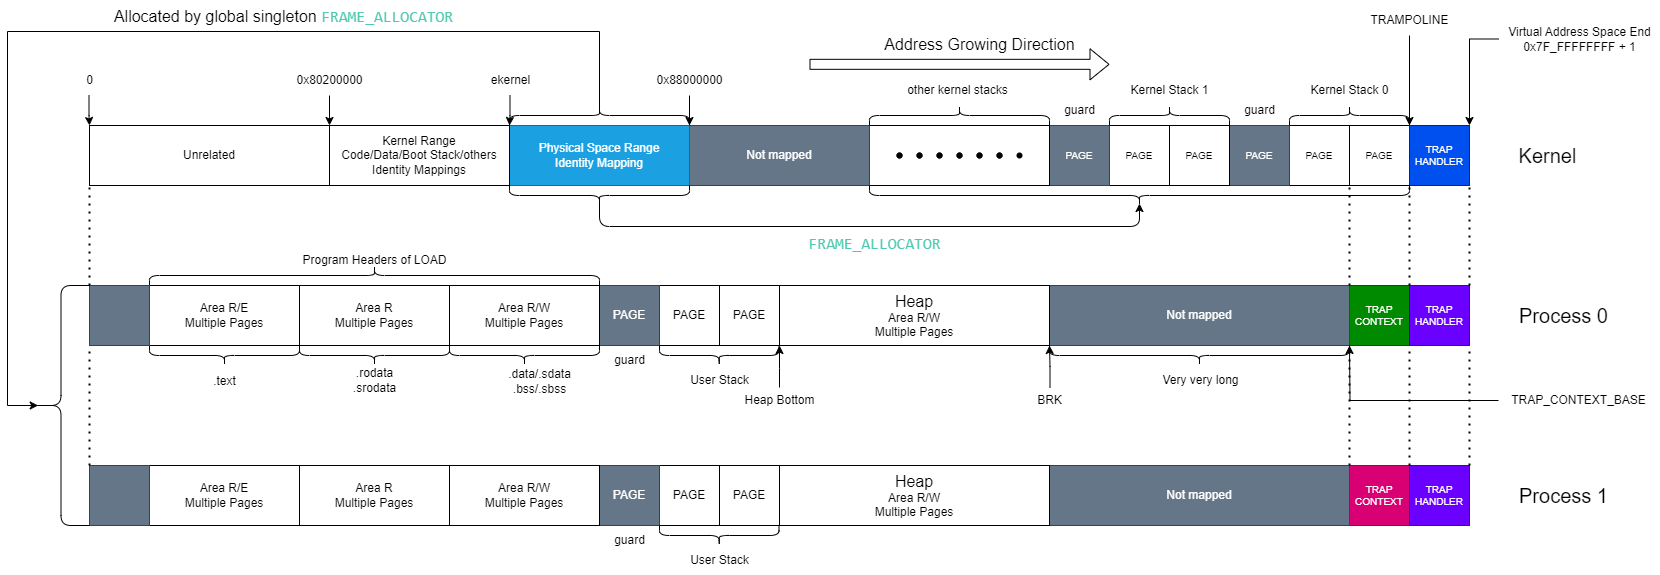
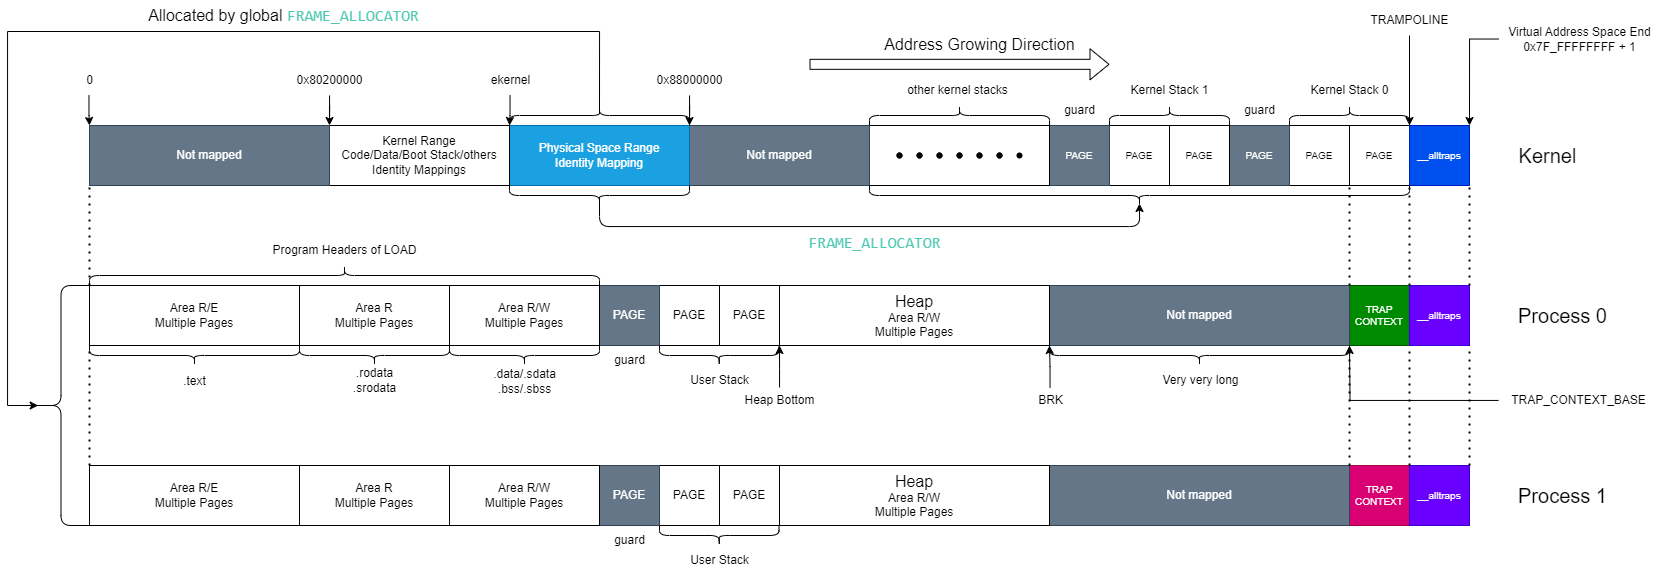
Site updated: 2024-04-17 11:25:20

diff --git a/2024/04/16/OSCamp-D9-rCore-Chapter-4-Code-Comprehension/index.html b/2024/04/16/OSCamp-D9-rCore-Chapter-4-Code-Comprehension/index.html
@@ -20,16 +20,17 @@
 
 <script class="next-config" data-name="main" type="application/json">{"hostname":"qiu233.github.io","root":"/","images":"/images","scheme":"Muse","darkmode":true,"version":"8.19.1","exturl":false,"sidebar":{"position":"left","display":"post","padding":18,"offset":12},"copycode":{"enable":false,"style":null},"fold":{"enable":false,"height":500},"bookmark":{"enable":false,"color":"#222","save":"auto"},"mediumzoom":false,"lazyload":false,"pangu":false,"comments":{"style":"tabs","active":null,"storage":true,"lazyload":false,"nav":null},"stickytabs":false,"motion":{"enable":true,"async":false,"transition":{"menu_item":"fadeInDown","post_block":"fadeIn","post_header":"fadeInDown","post_body":"fadeInDown","coll_header":"fadeInLeft","sidebar":"fadeInUp"}},"i18n":{"placeholder":"搜索...","empty":"没有找到任何搜索结果：${query}","hits_time":"找到 ${hits} 个搜索结果（用时 ${time} 毫秒）","hits":"找到 ${hits} 个搜索结果"}}</script><script src="/js/config.js"></script>
 
-    <meta name="description" content="今天花了大半天读代码，然后整理出下面这张图，作为rCore第4章地址空间一览。图中包括内核的地址空间和两个进程的地址空间。虚线表示地址相等，没有虚线的部分的宽度比例没有实际意义。 地址转换机制请见上一篇文章。   地址空间切换 虚拟地址空间到物理地址的映射由MemorySet决定，内核只有一个全局的实例KERNEL_SPACE，而每一个进程都有独特的MemorySet。用户程序切换到内核态时，在执">
+    <meta name="description" content="我花了一天多时间做了下面两张图，分别是地址空间一览和第四章内核态内存管理的层次结构一览。  第一节-地址空间关注第一张图，解释地址空间的分配。 第二节-内存管理利用第二张图解释第四章是如何实现内存管理的。     地址空间 图中包括内核的地址空间和两个进程的地址空间。虚线表示地址相等，没有虚线的部分的宽度比例没有实际意义。 地址转换机制请见上一篇文章。  地址空间切换 虚拟地址空间到物理地址的映射">
 <meta property="og:type" content="article">
 <meta property="og:title" content="OSCamp D9-rCore-Chapter-4-Code Comprehension">
 <meta property="og:url" content="https://qiu233.github.io/2024/04/16/OSCamp-D9-rCore-Chapter-4-Code-Comprehension/index.html">
 <meta property="og:site_name" content="Qiu的博客">
-<meta property="og:description" content="今天花了大半天读代码，然后整理出下面这张图，作为rCore第4章地址空间一览。图中包括内核的地址空间和两个进程的地址空间。虚线表示地址相等，没有虚线的部分的宽度比例没有实际意义。 地址转换机制请见上一篇文章。   地址空间切换 虚拟地址空间到物理地址的映射由MemorySet决定，内核只有一个全局的实例KERNEL_SPACE，而每一个进程都有独特的MemorySet。用户程序切换到内核态时，在执">
+<meta property="og:description" content="我花了一天多时间做了下面两张图，分别是地址空间一览和第四章内核态内存管理的层次结构一览。  第一节-地址空间关注第一张图，解释地址空间的分配。 第二节-内存管理利用第二张图解释第四章是如何实现内存管理的。     地址空间 图中包括内核的地址空间和两个进程的地址空间。虚线表示地址相等，没有虚线的部分的宽度比例没有实际意义。 地址转换机制请见上一篇文章。  地址空间切换 虚拟地址空间到物理地址的映射">
 <meta property="og:locale" content="zh_CN">
 <meta property="og:image" content="https://qiu233.github.io/2024/04/16/OSCamp-D9-rCore-Chapter-4-Code-Comprehension/rcore-ch4-mm-spaces.png">
+<meta property="og:image" content="https://qiu233.github.io/2024/04/16/OSCamp-D9-rCore-Chapter-4-Code-Comprehension/rcore-ch4-mm-hierarchy.png">
 <meta property="article:published_time" content="2024-04-16T04:14:07.000Z">
-<meta property="article:modified_time" content="2024-04-16T12:20:14.981Z">
+<meta property="article:modified_time" content="2024-04-17T03:21:17.654Z">
 <meta property="article:author" content="Qiu">
 <meta property="article:tag" content="Rust">
 <meta property="article:tag" content="RISC-V">
@@ -116,7 +117,7 @@
       <div class="sidebar-panel-container">
         <!--noindex-->
         <div class="post-toc-wrap sidebar-panel">
-            <div class="post-toc animated"><ol class="nav"><li class="nav-item nav-level-2"><a class="nav-link" href="#%E5%9C%B0%E5%9D%80%E7%A9%BA%E9%97%B4%E5%88%87%E6%8D%A2"><span class="nav-number">1.</span> <span class="nav-text"> 地址空间切换</span></a></li><li class="nav-item nav-level-2"><a class="nav-link" href="#%E5%86%85%E6%A0%B8%E7%9A%84identity-mappings"><span class="nav-number">2.</span> <span class="nav-text"> 内核的Identity Mappings</span></a></li><li class="nav-item nav-level-2"><a class="nav-link" href="#%E5%86%85%E5%AD%98%E5%88%86%E9%85%8D"><span class="nav-number">3.</span> <span class="nav-text"> 内存分配</span></a></li></ol></div>
+            <div class="post-toc animated"><ol class="nav"><li class="nav-item nav-level-1"><a class="nav-link" href="#%E5%9C%B0%E5%9D%80%E7%A9%BA%E9%97%B4"><span class="nav-number">1.</span> <span class="nav-text"> 地址空间</span></a><ol class="nav-child"><li class="nav-item nav-level-2"><a class="nav-link" href="#%E5%9C%B0%E5%9D%80%E7%A9%BA%E9%97%B4%E5%88%87%E6%8D%A2"><span class="nav-number">1.1.</span> <span class="nav-text"> 地址空间切换</span></a></li><li class="nav-item nav-level-2"><a class="nav-link" href="#%E5%86%85%E6%A0%B8%E7%9A%84identity-mappings"><span class="nav-number">1.2.</span> <span class="nav-text"> 内核的Identity Mappings</span></a></li><li class="nav-item nav-level-2"><a class="nav-link" href="#%E5%86%85%E5%AD%98%E5%88%86%E9%85%8D"><span class="nav-number">1.3.</span> <span class="nav-text"> 内存分配</span></a></li></ol></li><li class="nav-item nav-level-1"><a class="nav-link" href="#%E5%86%85%E5%AD%98%E7%AE%A1%E7%90%86"><span class="nav-number">2.</span> <span class="nav-text"> 内存管理</span></a><ol class="nav-child"><li class="nav-item nav-level-2"><a class="nav-link" href="#%E5%86%85%E5%AD%98%E5%88%86%E9%85%8D-2"><span class="nav-number">2.1.</span> <span class="nav-text"> 内存分配</span></a></li><li class="nav-item nav-level-2"><a class="nav-link" href="#%E5%86%85%E5%AD%98%E5%9B%9E%E6%94%B6"><span class="nav-number">2.2.</span> <span class="nav-text"> 内存回收</span></a></li></ol></li></ol></div>
         </div>
         <!--/noindex-->
 
@@ -194,9 +195,15 @@
         <i class="far fa-calendar"></i>
       </span>
       <span class="post-meta-item-text">发表于</span>
-      
 
-      <time title="创建时间：2024-04-16 12:14:07 / 修改时间：20:20:14" itemprop="dateCreated datePublished" datetime="2024-04-16T12:14:07+08:00">2024-04-16</time>
+      <time title="创建时间：2024-04-16 12:14:07" itemprop="dateCreated datePublished" datetime="2024-04-16T12:14:07+08:00">2024-04-16</time>
+    </span>
+    <span class="post-meta-item">
+      <span class="post-meta-item-icon">
+        <i class="far fa-calendar-check"></i>
+      </span>
+      <span class="post-meta-item-text">更新于</span>
+      <time title="修改时间：2024-04-17 11:21:17" itemprop="dateModified" datetime="2024-04-17T11:21:17+08:00">2024-04-17</time>
     </span>
     <span class="post-meta-item">
       <span class="post-meta-item-icon">
@@ -217,9 +224,16 @@
     
     
     
-    <div class="post-body" itemprop="articleBody"><p>今天花了大半天读代码，然后整理出下面这张图，作为rCore第4章地址空间一览。图中包括内核的地址空间和两个进程的地址空间。<strong>虚线表示地址相等，没有虚线的部分的宽度比例没有实际意义。</strong></p>
-<p>地址转换机制请见上一篇文章。</p>
+    <div class="post-body" itemprop="articleBody"><p>我花了一天多时间做了下面两张图，分别是<em>地址空间一览</em>和<em>第四章内核态内存管理的层次结构一览</em>。</p>
+<ul>
+<li><a href="#%E5%9C%B0%E5%9D%80%E7%A9%BA%E9%97%B4">第一节-地址空间</a>关注第一张图，解释地址空间的分配。</li>
+<li><a href="#%E5%86%85%E5%AD%98%E7%AE%A1%E7%90%86">第二节-内存管理</a>利用第二张图解释第四章是如何实现内存管理的。</li>
+</ul>
 <img src="/2024/04/16/OSCamp-D9-rCore-Chapter-4-Code-Comprehension/rcore-ch4-mm-spaces.png" class="">
+<img src="/2024/04/16/OSCamp-D9-rCore-Chapter-4-Code-Comprehension/rcore-ch4-mm-hierarchy.png" class="">
+<h1 id="地址空间"><a class="markdownIt-Anchor" href="#地址空间"></a> 地址空间</h1>
+<p>图中包括内核的地址空间和两个进程的地址空间。<strong>虚线表示地址相等，没有虚线的部分的宽度比例没有实际意义。</strong></p>
+<p>地址转换机制请见上一篇文章。</p>
 <h2 id="地址空间切换"><a class="markdownIt-Anchor" href="#地址空间切换"></a> 地址空间切换</h2>
 <p>虚拟地址空间到物理地址的映射由<code>MemorySet</code>决定，内核只有一个全局的实例<code>KERNEL_SPACE</code>，而每一个进程都有独特的<code>MemorySet</code>。用户程序切换到内核态时，在执行复杂代码前必须先转换地址空间。在回到用户态之前必须把地址空间转换回去。</p>
 <p>如图，包括内核和所有进程的虚拟地址空间的最后一个VP(虚拟页)被映射到<strong>同一个PP(物理页)</strong>：<strong>蹦床(Trampoline)</strong>，即<code>.text.trampoline</code>段中的<code>__alltraps</code>。</p>
@@ -261,6 +275,43 @@
 <li>最后的TRAP_HANDLER：固定映射到同一个PP，前面已经说过，不再赘述。</li>
 <li>Heap：初始时<code>BRK</code>和<code>Heap Bottom</code>重合，因为大小为0。但是程序可以通过系统调用让OS分配更多内存，同时会将<code>BRK</code>右移，Heap扩大。</li>
 </ul>
+<h1 id="内存管理"><a class="markdownIt-Anchor" href="#内存管理"></a> 内存管理</h1>
+<p>从这里开始请关注第二张图。</p>
+<p>开始之前请读者确认这一点：</p>
+<blockquote>
+<p>因为内核的Heap实际上是一段分配在.bss上的全局数组<code>HEAP_SPACE</code>和对应的<code>HEAP_ALLOCATOR</code>，所以也包含在Kernel Range中了。</p>
+</blockquote>
+<p><strong>内存管理完全在内核空间中进行。</strong></p>
+<p>第四章的<code>TaskManager</code>有如下变化：</p>
+<ul>
+<li>将固定大小的<code>TaskControlBlock</code>(之后简称TCB)数组改为一个分配在Heap上的<code>Vec</code>。</li>
+<li><code>TCB</code>新增一些字段，其中最重要的是<code>memory_set: MemorySet</code>，决定进程的地址空间。</li>
+</ul>
+<p><code>MemorySet</code>表示一个完整的地址空间，每个进程都有独立的<code>MemorySet</code>，内核有唯一一个全局的<code>KERNEL_SPACE</code>。</p>
+<p>接下来我们只关注进程的<code>MemorySet</code>，请读者注意：进程的<code>MemorySet</code>对进程本身不可见，它分配在内核的Heap上，只对内核可见。内核管理进程的内存必须切换到内核态和内核空间中。</p>
+<ul>
+<li><code>MemorySet</code>持有一个<code>PageTable</code>，页表树的非叶子节点都在此处。</li>
+<li>叶子节点，即最&quot;普通&quot;的Frame，在更下一层的结构<code>MapArea</code>中。</li>
+<li><strong>Identity Mappings没有Frame会被持有。</strong></li>
+</ul>
+<p><code>MemorySet</code>持有一个<code>MapArea</code>列表，一个<code>MapArea</code>表示地址空间中一段连续的、<strong>具有相同性质</strong>的多个VP。例如代码和数据就应当分属不同的<code>MapArea</code>，因为代码可执行，而数据一般不可执行。</p>
+<p><code>MapArea</code>的细节如图右下角所示，最重要的是Data Frames，它用一个分配在内核Heap上的<code>BTreeMap</code>保存了VPN到Frame的映射。</p>
+<h2 id="内存分配-2"><a class="markdownIt-Anchor" href="#内存分配-2"></a> 内存分配</h2>
+<p>内核启动后仅清理.bss和输出log信息后，立刻将<code>KERNEL_SPACE</code>初始化，并设置<code>satp</code>寄存器启用之。</p>
+<p>启动程序时(见<code>MemorySet::from_elf</code>和<code>TaskControlBlock::new</code>)：</p>
+<ol>
+<li>映射全局固定的<code>TRAMPOLINE</code></li>
+<li>解析ELF文件，为各个类型为<code>PT_LOAD</code>的Program Header分配内存，并加载到内存中</li>
+<li>分配栈空间(长度3页，分配2页)</li>
+<li>保留堆区域，初始时长度为0</li>
+<li>分配<code>TRAP_CONTEXT</code>空间，并映射于地址<code>TRAP_CONTEXT_BASE</code></li>
+<li>为进程分配内核栈，<strong>映射于内核空间中</strong></li>
+</ol>
+<p>过程还会解析程序入口点地址，程序启动跳转与前两章没多少区别。</p>
+<h2 id="内存回收"><a class="markdownIt-Anchor" href="#内存回收"></a> 内存回收</h2>
+<p>当进程结束时，内核空间中对应进程的整个<code>MemorySet</code>应当被销毁，此时它所有下级结构持有的Frame全部都会被<code>FRAME_ALLOCATOR</code>回收。</p>
+<p>此外，由于启动进程时还在内核空间中分配了进程的内核栈，进程结束时该空间也应当一并回收。</p>
+<p>但是我在原仓库没有找到任何有关程序结束内存回收的代码，可能是因为目前程序的执行数量和顺序都在编译期决定，不需要回收也不影响结果。</p>
 
     </div>
 

diff --git a/index.html b/index.html
@@ -186,9 +186,15 @@
         <i class="far fa-calendar"></i>
       </span>
       <span class="post-meta-item-text">发表于</span>
-      
 
-      <time title="创建时间：2024-04-16 12:14:07 / 修改时间：20:20:14" itemprop="dateCreated datePublished" datetime="2024-04-16T12:14:07+08:00">2024-04-16</time>
+      <time title="创建时间：2024-04-16 12:14:07" itemprop="dateCreated datePublished" datetime="2024-04-16T12:14:07+08:00">2024-04-16</time>
+    </span>
+    <span class="post-meta-item">
+      <span class="post-meta-item-icon">
+        <i class="far fa-calendar-check"></i>
+      </span>
+      <span class="post-meta-item-text">更新于</span>
+      <time title="修改时间：2024-04-17 11:21:17" itemprop="dateModified" datetime="2024-04-17T11:21:17+08:00">2024-04-17</time>
     </span>
     <span class="post-meta-item">
       <span class="post-meta-item-icon">
@@ -210,9 +216,16 @@
     
     
     <div class="post-body" itemprop="articleBody">
-          <p>今天花了大半天读代码，然后整理出下面这张图，作为rCore第4章地址空间一览。图中包括内核的地址空间和两个进程的地址空间。<strong>虚线表示地址相等，没有虚线的部分的宽度比例没有实际意义。</strong></p>
-<p>地址转换机制请见上一篇文章。</p>
+          <p>我花了一天多时间做了下面两张图，分别是<em>地址空间一览</em>和<em>第四章内核态内存管理的层次结构一览</em>。</p>
+<ul>
+<li><a href="#%E5%9C%B0%E5%9D%80%E7%A9%BA%E9%97%B4">第一节-地址空间</a>关注第一张图，解释地址空间的分配。</li>
+<li><a href="#%E5%86%85%E5%AD%98%E7%AE%A1%E7%90%86">第二节-内存管理</a>利用第二张图解释第四章是如何实现内存管理的。</li>
+</ul>
 <img src="/2024/04/16/OSCamp-D9-rCore-Chapter-4-Code-Comprehension/rcore-ch4-mm-spaces.png" class="">
+<img src="/2024/04/16/OSCamp-D9-rCore-Chapter-4-Code-Comprehension/rcore-ch4-mm-hierarchy.png" class="">
+<h1 id="地址空间"><a class="markdownIt-Anchor" href="#地址空间"></a> 地址空间</h1>
+<p>图中包括内核的地址空间和两个进程的地址空间。<strong>虚线表示地址相等，没有虚线的部分的宽度比例没有实际意义。</strong></p>
+<p>地址转换机制请见上一篇文章。</p>
 <h2 id="地址空间切换"><a class="markdownIt-Anchor" href="#地址空间切换"></a> 地址空间切换</h2>
 <p>虚拟地址空间到物理地址的映射由<code>MemorySet</code>决定，内核只有一个全局的实例<code>KERNEL_SPACE</code>，而每一个进程都有独特的<code>MemorySet</code>。用户程序切换到内核态时，在执行复杂代码前必须先转换地址空间。在回到用户态之前必须把地址空间转换回去。</p>
 <p>如图，包括内核和所有进程的虚拟地址空间的最后一个VP(虚拟页)被映射到<strong>同一个PP(物理页)</strong>：<strong>蹦床(Trampoline)</strong>，即<code>.text.trampoline</code>段中的<code>__alltraps</code>。</p>
@@ -254,6 +267,43 @@
 <li>最后的TRAP_HANDLER：固定映射到同一个PP，前面已经说过，不再赘述。</li>
 <li>Heap：初始时<code>BRK</code>和<code>Heap Bottom</code>重合，因为大小为0。但是程序可以通过系统调用让OS分配更多内存，同时会将<code>BRK</code>右移，Heap扩大。</li>
 </ul>
+<h1 id="内存管理"><a class="markdownIt-Anchor" href="#内存管理"></a> 内存管理</h1>
+<p>从这里开始请关注第二张图。</p>
+<p>开始之前请读者确认这一点：</p>
+<blockquote>
+<p>因为内核的Heap实际上是一段分配在.bss上的全局数组<code>HEAP_SPACE</code>和对应的<code>HEAP_ALLOCATOR</code>，所以也包含在Kernel Range中了。</p>
+</blockquote>
+<p><strong>内存管理完全在内核空间中进行。</strong></p>
+<p>第四章的<code>TaskManager</code>有如下变化：</p>
+<ul>
+<li>将固定大小的<code>TaskControlBlock</code>(之后简称TCB)数组改为一个分配在Heap上的<code>Vec</code>。</li>
+<li><code>TCB</code>新增一些字段，其中最重要的是<code>memory_set: MemorySet</code>，决定进程的地址空间。</li>
+</ul>
+<p><code>MemorySet</code>表示一个完整的地址空间，每个进程都有独立的<code>MemorySet</code>，内核有唯一一个全局的<code>KERNEL_SPACE</code>。</p>
+<p>接下来我们只关注进程的<code>MemorySet</code>，请读者注意：进程的<code>MemorySet</code>对进程本身不可见，它分配在内核的Heap上，只对内核可见。内核管理进程的内存必须切换到内核态和内核空间中。</p>
+<ul>
+<li><code>MemorySet</code>持有一个<code>PageTable</code>，页表树的非叶子节点都在此处。</li>
+<li>叶子节点，即最&quot;普通&quot;的Frame，在更下一层的结构<code>MapArea</code>中。</li>
+<li><strong>Identity Mappings没有Frame会被持有。</strong></li>
+</ul>
+<p><code>MemorySet</code>持有一个<code>MapArea</code>列表，一个<code>MapArea</code>表示地址空间中一段连续的、<strong>具有相同性质</strong>的多个VP。例如代码和数据就应当分属不同的<code>MapArea</code>，因为代码可执行，而数据一般不可执行。</p>
+<p><code>MapArea</code>的细节如图右下角所示，最重要的是Data Frames，它用一个分配在内核Heap上的<code>BTreeMap</code>保存了VPN到Frame的映射。</p>
+<h2 id="内存分配-2"><a class="markdownIt-Anchor" href="#内存分配-2"></a> 内存分配</h2>
+<p>内核启动后仅清理.bss和输出log信息后，立刻将<code>KERNEL_SPACE</code>初始化，并设置<code>satp</code>寄存器启用之。</p>
+<p>启动程序时(见<code>MemorySet::from_elf</code>和<code>TaskControlBlock::new</code>)：</p>
+<ol>
+<li>映射全局固定的<code>TRAMPOLINE</code></li>
+<li>解析ELF文件，为各个类型为<code>PT_LOAD</code>的Program Header分配内存，并加载到内存中</li>
+<li>分配栈空间(长度3页，分配2页)</li>
+<li>保留堆区域，初始时长度为0</li>
+<li>分配<code>TRAP_CONTEXT</code>空间，并映射于地址<code>TRAP_CONTEXT_BASE</code></li>
+<li>为进程分配内核栈，<strong>映射于内核空间中</strong></li>
+</ol>
+<p>过程还会解析程序入口点地址，程序启动跳转与前两章没多少区别。</p>
+<h2 id="内存回收"><a class="markdownIt-Anchor" href="#内存回收"></a> 内存回收</h2>
+<p>当进程结束时，内核空间中对应进程的整个<code>MemorySet</code>应当被销毁，此时它所有下级结构持有的Frame全部都会被<code>FRAME_ALLOCATOR</code>回收。</p>
+<p>此外，由于启动进程时还在内核空间中分配了进程的内核栈，进程结束时该空间也应当一并回收。</p>
+<p>但是我在原仓库没有找到任何有关程序结束内存回收的代码，可能是因为目前程序的执行数量和顺序都在编译期决定，不需要回收也不影响结果。</p>
 
       
     </div>
